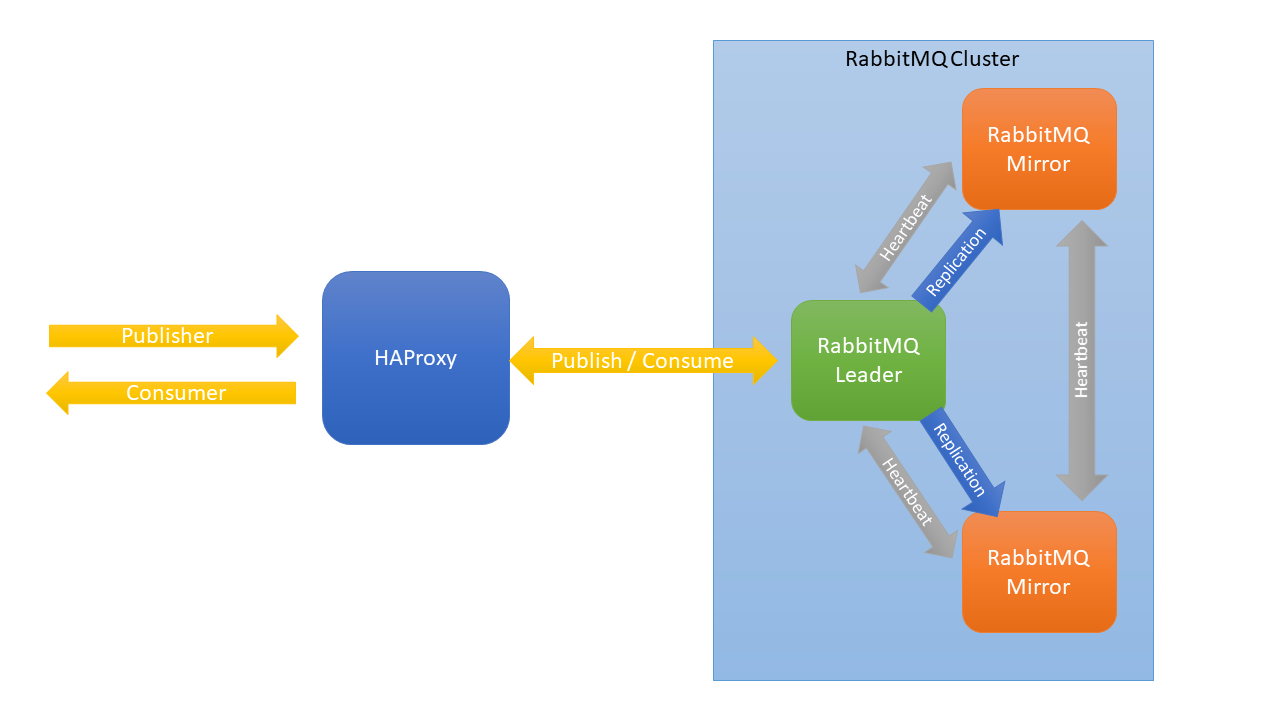
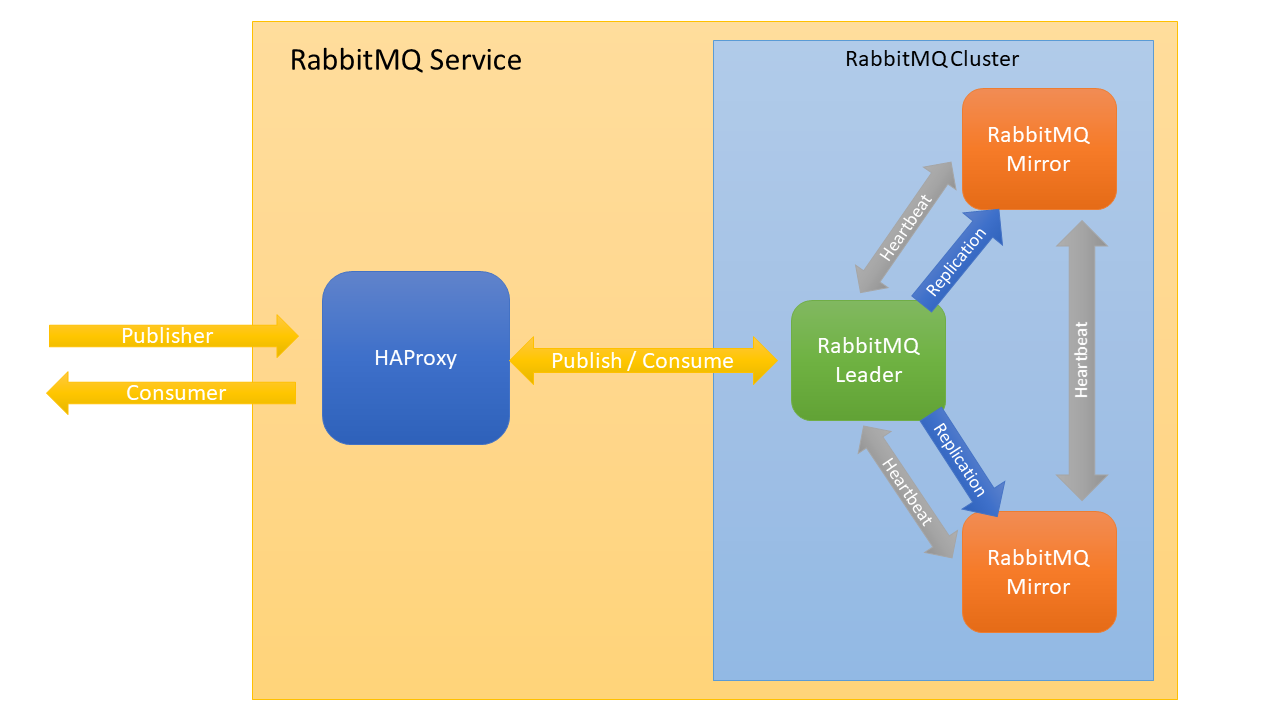
docs: - replace rabbitmq-cluster.png - complete osb-rabbitmq user-docs in osb-rabbitmq.md

diff --git a/service-docs/pages/osb-rabbitmq.md b/service-docs/pages/osb-rabbitmq.md
@@ -4,25 +4,21 @@
     - [Key Features](#key-features)
     - [Software used by OSB-RabbitMQ](#software-used-by-osb-rabbitmq)
     - [Cluster](#cluster)
-  - [TODO Requirements](#todo-requirements)
-  - [TODO How to](#todo-how-to)
+  - [Requirements](#requirements)
+  - [How to](#how-to)
     - [Create a Service Instance](#create-a-service-instance)
     - [Update a Service Instance](#update-a-service-instance)
     - [Create a Service Binding](#create-a-service-binding)
     - [Acquiring Service Instance Parameters](#acquiring-service-instance-parameters)
-    - [Backup](#backup)
     - [Change SSL Certificates](#change-ssl-certificates)
   - [Settings](#settings)
     - [Service Instance Settings Schema](#service-instance-settings-schema)
       - [Server object](#server-object)
       - [SSL object](#ssl-object)
-    - [Ingress and egress binding](#ingress-and-egress-binding)
-  - [TODO FAQ](#todo-faq)
-    - [How a can the status of the cluster be viewed?](#how-a-can-the-status-of-the-cluster-be-viewed)
-    - [Cluster performance](#cluster-performance)
-    - [etc](#etc)
+  - [FAQ](#faq)
+    - [How a can the cluster  be monitored and managed?](#how-a-can-the-cluster--be-monitored-and-managed)
     - [OSB-RabbitMQ crashed](#osb-rabbitmq-crashed)
-    - [A Elasticsearch instance crashed (?anwendbar auf rabbitmq?)](#a-elasticsearch-instance-crashed-anwendbar-auf-rabbitmq)
+    - [A RabbitMQ instance crashed](#a-rabbitmq-instance-crashed)
     - [The size of the backup was bigger than expected (and failed) and now all of my storage space is occupied](#the-size-of-the-backup-was-bigger-than-expected-and-failed-and-now-all-of-my-storage-space-is-occupied)
   - [Appendix](#appendix)
     - [List of supported plugins](#list-of-supported-plugins)
@@ -41,21 +37,19 @@ RabbitMQ is a lightweight message broker that can be deployed in distributed and
 - **Client Libraries for many Languages**: RabbitMQ has several official client libraries. Libraries exist for, among many other programming languages, Java (and Spring), .NET, Ruby, Python, Javascript (and Node.js) and Go. For a complete list, see [Clients Libraries and Developer Tools](https://www.rabbitmq.com/devtools.html).
 - **Management UI**: RabbitMQ has an integrated [management UI](https://www.rabbitmq.com/management.html) which allows for monitoring and controlling of the message broker.
 - **Tracing**: RabbitMQ has a [firehose](https://www.rabbitmq.com/firehose.html) feature which makes it able to see every message that is published and every message that is delivered so that, for example, unacked messages can be found. 
-- **Plugin System**: RabbitMQ ships with a variety of plugins extending it. Plugins can be selected by sending request parameters within a create/update request sent to the broker (see[Settings](#settings)). Additionally, own plugins can be written (?werden Kunde eigene Plugins schreiben? oder lieber raus nehmen?).
+- **Plugin System**: RabbitMQ ships with a variety of plugins extending it. Plugins can be selected by sending request parameters within a create/update request sent to the broker (see[Settings](#settings)).
 
 A complete list of features can be found [here](https://www.rabbitmq.com/features.html).
 
 For more information, see the [RabbitMQ Documentation](https://www.rabbitmq.com/documentation.html).
 
 This project is part of our service broker project. For documentation of the service broker see [evoila/osb-docs](https://github.com/evoila/osb-docs).
-The OSB-Elasticsearch offers different service plans which vary in allocated memory, cpu, disc-size and number of vms created for Elasticsearch. (gleich?)
+The OSB-RabbitMQ offers different service plans which vary in allocated memory, cpu, disc-size and number of vms created for RabbitMQ.
 
 ### Software used by OSB-RabbitMQ
-- **RabbitMQ**: ???3.6.12
+- **RabbitMQ**: 3.6.12
 
 ### Cluster
-
-
 
 A RabbitMQ cluster can consist of a single node but it is recommended to have at least 3 nodes if high availability is a concern. The master node is called *leader* and undertakes the task of queueing messages while the other nodes are called *mirrors*, which apply the operations that occur to the leader exactly in the same order as the leader and thus maintain the same state. Requests to a RabbitMQ instance are first sent to a HAProxy instance which then redirects the requests to the leader node.
 
@@ -63,18 +57,13 @@ If a mirror fails, no client needs to take any action or be informed about the f
 
 If the leader fails, the longest running mirror is promoted to leader. If no mirror is completely synchronized to the leader, messages that only existed on the leader will be lost.
 
-> **_IMPORTANT:_** The amount of master-eligible nodes together with the general nodes must be odd. (?odd wird hier gar nicht gebraucht, da einfach der longest running mirror ausgewählt wird, oder?)
-
-(?Bild anpassen? Kasten "RabbitMQ Service Instance" um Cluster und HAProxy?)
 The following image shows, how RabbitMQ nodes are managed:
 ![RabbitMQ cluster](../assets/rabbitmq-cluster.png)
 
-## TODO Requirements
+## Requirements
 - [Cloud Foundry CLI](https://docs.cloudfoundry.org/cf-cli/install-go-cli.html)
-- Memory: A node should have at least 4 GB of RAM (recommended minimum is 8 GB) but not greater than 64 GB (see [Heap: Sizing and Swapping](https://www.elastic.co/guide/en/elasticsearch/guide/current/heap-sizing.html))
-- Storage: For memory-intense search workloads a ram to storage workload of 1:16..(?TODO)
 
-## TODO How to
+## How to
 ### Create a Service Instance
 
 A service instance can be created manually via the CLI-Command
@@ -87,10 +76,10 @@ cf create-service SERVICE PLAN SERVICE_INSTANCE [-b BROKER] [-c PARAMETERS_AS_JS
 - **SERVICE_INSTANCE** the name of the service instance, can be chosen freely.
 - **PARAMETERS_AS_JSON** contains additional parameters in JSON-format.
 
-For more information see [Cloud Foundry CLI Reference Guide](https://cli.cloudfoundry.org/en-US/v6/create-service.html)
+For more information see [Cloud Foundry CLI Reference Guide](https://cli.cloudfoundry.org/en-US/v6/create-service.html).
 
-?Zeigt dashboard parameter? Info raus?Erzeugen geht ja theoretisch
 Aternatively, if there is a dashboard set up (like the Stratos Dashboard for example), it can be used to create a service instance.
+> **_IMPORTANT:_** If plugins are selected via dashboard, the default ones (which are required) have to be selected manually.
 
 ### Update a Service Instance
 
@@ -104,7 +93,6 @@ cf update-service SERVICE_INSTANCE [-p NEW_PLAN] [-c PARAMETERS_AS_JSON] [-t TAG
 
 For more information see [Cloud Foundry CLI Reference Guide](https://cli.cloudfoundry.org/en-US/v6/update-service.html)
 
-?Zeigt dashboard parameter? Info raus?Erzeugen geht ja theoretisch
 Aternatively, if there is a dashboard set up (like the Stratos Dashboard for example), it can be used to update a service instance.
 
 > **_IMPORTANT:_** Keep in mind that **previous values will be overwritten**. In order to see the existing parameters you can use a dashboard or acquire the parameters via cli (see [Acquiring Service Instance Parameters](#acquiring-service-instance-parameters)).
@@ -117,13 +105,10 @@ cf bind-service APP_NAME SERVICE_INSTANCE [--binding-name BINDING_NAME]
 
 - **APP_NAME** ist the name of the previously created app that gets the binding injected.
 - **SERVICE_INSTANCE** is be the name of the previously created service instance.
-(?parameters werden nicht gebraucht, da kein schema für service_binding)
-
 
 For more information see [Cloud Foundry CLI Reference Guide](https://cli.cloudfoundry.org/en-US/v6/bind-service.html).
-After creating a binding, the app has to be restarted for the changes to take effect. (??muss rabbitmq service dann neu gestartet werden?)
+After creating a binding, the app has to be restarted for the changes to take effect.
 
-?Falls bei create und update parameter nicht gehen: trotzdem auf dashboard bei create binding verweisen?
 Aternatively, if there is a dashboard set up (like the Stratos Dashboard for example), it can be used to create a service binding.
 
 ### Acquiring Service Instance Parameters
@@ -137,36 +122,9 @@ The current parameters of a service instance can be retrieved via cli:
 - **SERVICE_INSTANCE** is be the name of the previously created service instance.
 - **SERVICE_INSTANCE_ID** is the guid of the service instance which is acquired in step 1. 
 
-
-### Backup
-
-TODO 
-
-??Backup
-
-Before creating a backup, a backup client must be set up, which can be done by sending [settings](#settings) while creating/updating a service instance.
-Afterwards a snapshot can be triggered via the Elasticsearch API:
-```
-PUT /_snapshot/my_repository/my_snapshot
-```
-- **my_repository** is the name of the client.
-- **my_snapshot** is the name of the snapshot. **Must** be lowercase.
-(wird beim erzeugen vom repo compression definiert?)
-
-TODO END FUTURE
-
-Further information about using the Elasticsearch API to create a snapshot can be found [here](https://www.elastic.co/guide/en/elasticsearch/reference/current/create-snapshot-api.html)
-
-It is important to keep in mind that there is enough space for Elasticearch data and backups. The size of the backup corresponds to the size of the indices (?check compression?) which can be checked by sending a request to the Elasticsearch API (see [Index Stats API](https://www.elastic.co/guide/en/elasticsearch/reference/7.7/indices-stats.html)):
-```
-GET /_stats
-```
-
-The size of a plan can be scaled up afterwards but this will copy the disk.
-
 ### Change SSL Certificates
 
-The certificates expire after 365 day. If a certificate is about to expire, contact the operator of the Service Broker to renew the certificates.
+The certificates expire after 365 days. If a certificate is about to expire, contact the operator of the Service Broker to renew the certificates.
 
 If Bosh DNS is used, the certificates are stored in Credhub and can be renewed there. If the root CA is still valid, the certificate can simply be deleted and the new certificate can be used via `bosh manifest`and `bosh deploy`. If the root CA expires, it is necessary to concatenate old and new certificates, for example via [https://github.com/pivotal/credhub-release/blob/main/docs/ca-rotation.md](https://github.com/pivotal/credhub-release/blob/main/docs/ca-rotation.md).</br>
 If the IP variant is used and the root CA still valid, it is sufficient to use `bosh recreate`. For changing the root CA, it also has to be concatenated and multiple deploys have to be made.
@@ -194,7 +152,7 @@ cf update-service SERVICE_INSTANCE [-c PARAMETERS_AS_JSON]
 
 For example, a cli command for creating a service instance could look like this:
 ```
-cf cs osb-elasticsearch s elasticsearch-test -c '{"rabbitmq": {"disk_free_limit": 25000000, "plugins": ["rabbitmq_management", "rabbitmq_delayed_message_exchange"], "ssl": {"enabled": true}}}'
+cf cs osb-rabbitmq s rabbitmq-test -c '{"rabbitmq": {"disk_free_limit": 25000000, "plugins": ["rabbitmq_management", "rabbitmq_delayed_message_exchange"], "ssl": {"enabled": true}}}'
 ```
 An extended example of the parameters for a create/update request for a service instance is shown below:
 ```json
@@ -229,9 +187,9 @@ In the following section, the fields will be described.
 
 ### Service Instance Settings Schema
 
-The following settings are defined in the schema in service_plan.schemas.service_instance.**create**.parameters.properties.rabbitmq.properties and service_plan.schemas.service_instance.**update**.parameters.properties.rabbitmq.properties (?überprüfen ob korrekt)
+The following settings are defined in the schema in service_plan.schemas.service_instance.**create**.parameters.properties.rabbitmq.properties and service_plan.schemas.service_instance.**update**.parameters.properties.rabbitmq.properties
 
-> **_IMPORTANT:_** If SSL has been enabled via settings, it must not be disabled, while the service instance ist running.?
+> **_IMPORTANT:_** If SSL has been enabled via settings, it must not be disabled, while the service instance ist running.
 
 | Parameter | Type | Default Value | Description |
 | - | - | - | - |
@@ -247,7 +205,7 @@ The Server object contains the settings for the RabbitMQ service instance and co
 | reverse_dns_lookup | boolean | false | Perform reverse DNS lookups when accepting a connection. RabbitMQctl will then display hostnames instead of IP addresses. |
 | disk_alarm_threshold | string | {mem_relative,0.4} | The threshold in bytes of free disk space at which rabbitmq will raise an alarm. "{mem_relative}" is relative to the RAM in the machine. Otherwise "absolute" can be used with optional units (e.g. "KB", "MB", "GB") behind an integer number. |
 | disk_free_limit | integer | 50000000 | Lower bound for the disk after which a disk alarm will be set. |
-| plugins | array of strings | - | Plugins to be used by RabbitMQ. Valid values are listed in [Plugins](#list-of-supported-plugins). **"rabbitmq_management"** and **"rabbitmq_delayed_message_exchange"** are **required**. |
+| plugins | array of strings | - | Plugins to be used by RabbitMQ. Valid values are listed in [Plugins](#list-of-supported-plugins). **"rabbitmq_management"** is **required**. |
 | handshake_timeout | integer | 10000 | Maximum amount of time allowed for the AMQP 0-9-1 and AMQP 1.0 handshake. |
 | ssl | [SSL](#ssl-object) object | - | The SSL object contains the configuration for SSL. |
 | net_ticktime | integer | 130 | Time until a node is considered lost if no heartbeat is sent. |
@@ -268,68 +226,35 @@ The Server object contains the settings for the RabbitMQ service instance and co
 | verify | string | verify_none | SSL Peer Verification (use 'verify_peer' or 'verifiy_none' to unable/disable). |
 | enabled | boolean | false | Enable SSL/TLS. |
 
-### Ingress and egress binding
+## FAQ
 
-?WEG
-When you create a new service binding in cloudfoundry, you can provide an client mode, either ingress or egress. The broker automatically filters the nodes and returns only the IPs corresponding to the client mode passed. If you do not specify a client mode, egress will be used.
+### How a can the cluster  be monitored and managed?
 
-Example:
+By using the included rabbitmq_management plugin the RabbitMQ nodes can be monitored and managed. The plugin provides a management UI which relies on the [HTTP API](https://www.rabbitmq.com/management.html#http-api) and can be accessed using a Web browser at `http://{node-hostname}:15672/`. The credentials can be found in the service key of the RabbitMQ service instance.
 
-`cf bind-service APP_NAME SERVICE_INSTANCE -c '{"clientMode":"ingress"}'`
+Inside the management UI, the user can add a queue associated with the service key, check the status of a queue associated with the service key, publish messages, read messages and list its consumers.
 
-`cf bind-service APP_NAME SERVICE_INSTANCE -c '{"clientMode":"egress"}'`
+Administrators are granted full access to the management UI and therefore can, among other capabilities, view node-level data such as memory use and clustering, global statistics for all virtual hosts and the queues of all users. 
+For a complete list of capabilties, see [Management Plugin Access and Permissions](https://www.rabbitmq.com/management.html#permissions). **Users are tagged as "policymaker", administrator as "administrator"**.
 
-## TODO FAQ
-
-### How a can the status of the cluster be viewed?
-Generelle Cluster Infos um Rückschlüsse ziehen zu können
-### Cluster performance
-
-### etc
+The admin credentials can be found in Credhub via cli by using the guid of the service instance and are stored in "broker_admin". Afterwards, username and password can be found inside the credentials which can be used to login into the management UI.
 
 ### OSB-RabbitMQ crashed
 
 If the service broker crashes, the operator should be contacted.
 
-### A Elasticsearch instance crashed (?anwendbar auf rabbitmq?)
-
-As long as the majority of MongoDB instances is running after another instance failed, the database is still functional. The Bosh director will detect the failure and try to repair the broken instance. If an automatic repair of the instance is not possible, it has to be fixed manually.
+### A RabbitMQ instance crashed
 
 The following causes can lead to a failure:
 - IaaS problems with VMs, network or storage.
 - Storage space completely occupied.
 
-Access to the VM via [Bosh CLI](https://bosh.io/docs/cli-v2/) is required for debugging. First, the following two files have to be sourced within the VM.
-
+Administrators can debug via [Bosh CLI](https://bosh.io/docs/cli-v2/), by viewing the logs found inside the VM:
 ```
-/var/vcap/jobs/mongodb/env
-/var/vcap/jobs/mongodb/bin/post-deploy
-```
-Start the Mongo cli ($MONGO) as admin (password can be found in **post-deploy** or CredHub for example) --authenticationDatabase admin --host $MONGODB_HOST.
-
-For example:
-```
-$MONGO -u admin -p ADMIN_PASSWORD --authenticationDatabase admin --host $MONGODB_HOST
-```
-Afterwards the state of the cluster can be retrieved with the command `rs.status()`. 
-Additional information can be retrieved with the command `rs.isMaster()`.
-
-**Majority** of nodes (including primary) failed and can't be reinitialized:</br>
-In this case no secondary can be elected as primary. The only options are reinitializing the replica set or [reconfiguring](https://docs.mongodb.com/manual/tutorial/reconfigure-replica-set-with-unavailable-members/) it.
-
-In many cases it is also possible, to retrieve the oplog of a failed primary with [`mongodump`](https://docs.mongodb.com/database-tools/mongodump/) using the `--oplog` flag and recover the database by replaying the oplog with [`mongorestore`](https://docs.mongodb.com/database-tools/mongorestore/) using the `--oplogReplay` flag.
-Currently, replaying an oplog is not supported by the Backup Manager. Changes to the database while doing a backup **may not** be recorded.
-
-The following logs are relevant for troubleshooting:
-
-```
-/var/vcap/sys/log/mongodb/server.stderr.log
-/var/vcap/sys/log/mongodb/server.stdout.log
+/var/vcap/sys/log/rabbitmq-server
 ```
 
-While performing maintenance on single replica set members, each node has to be restarted as standalone. Afterwards, maintenance can be done on the node and then be restarted as a member of the replica set. The primary should come last. More information about maintaining replica set members can be found [here](https://docs.mongodb.com/manual/tutorial/perform-maintence-on-replica-set-members/).
-
-If the error **cannot be fixed**, a new instance has to be created and restored by using a backup.
+If the error **cannot be fixed**, a new instance has to be created.
 
 ### The size of the backup was bigger than expected (and failed) and now all of my storage space is occupied
 
@@ -404,9 +329,7 @@ In this case, contact the operator.
 - rabbitmq_web_stomp
 - rabbitmq_web_stomp_examples
 - ranch
-- recon
 - seshat
 - stdout_formatter
 - syslog
 - sysmon_handler
-- systemd
